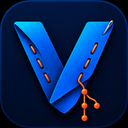
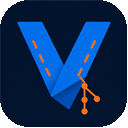
Release - 0.1.9 (#6)
* * 0.1.9 - Fixed MarketPlace Icon

* * 0.1.9 - add Auto Fetch

* * 0.1.9 - Release

---------

diff --git a/src/branches/branchesViewProvider.ts b/src/branches/branchesViewProvider.ts
@@ -10,19 +10,37 @@ import type {
 	ExtensionToBranchesMessage,
 } from '../shared/protocol/branches';
 
-export class BranchesViewProvider implements vscode.WebviewViewProvider {
+export class BranchesViewProvider implements vscode.WebviewViewProvider, vscode.Disposable {
 	static readonly viewType = 'gitTools.branchesView';
 
 	private view: vscode.WebviewView | undefined;
 	private readonly text = createTranslator(vscode.env.language);
 	private autoFetchInProgress = false;
 	private lastAutoFetchAt = 0;
+	private autoFetchTimer: ReturnType<typeof setInterval> | undefined;
+	private readonly disposables: vscode.Disposable[] = [];
 
 	constructor(
 		private readonly extensionUri: vscode.Uri,
 		private readonly api: API,
 		private readonly pushPreview: PushPreviewPanel,
-	) {}
+	) {
+		this.disposables.push(vscode.workspace.onDidChangeConfiguration((event) => {
+			if (!event.affectsConfiguration('gitTools.fetch')) return;
+			this.resetAutoFetchTimer();
+			void this.autoFetchRemoteState();
+		}));
+	}
+
+	startAutoFetch(): void {
+		this.resetAutoFetchTimer();
+		void this.autoFetchRemoteState();
+	}
+
+	dispose(): void {
+		if (this.autoFetchTimer) clearInterval(this.autoFetchTimer);
+		for (const disposable of this.disposables) disposable.dispose();
+	}
 
 	// Phase 3+ scope: first repository only, matching the commit panel and graph view.
 	private get repo() {
@@ -111,6 +129,7 @@ export class BranchesViewProvider implements vscode.WebviewViewProvider {
 					if (this.repo) {
 						this.post({ type: 'busy', busy: true });
 						await this.repo.fetch({ all: true, prune: true });
+						this.lastAutoFetchAt = Date.now();
 						await this.repo.status();
 						await this.sendBranches();
 					}
@@ -157,12 +176,18 @@ export class BranchesViewProvider implements vscode.WebviewViewProvider {
 
 	private async autoFetchRemoteState(): Promise<void> {
 		const repo = this.repo;
-		if (!repo || repo.state.remotes.length === 0 || this.autoFetchInProgress || Date.now() - this.lastAutoFetchAt < 60_000) return;
+		if (
+			!this.isAutoFetchEnabled()
+			|| !repo
+			|| repo.state.remotes.length === 0
+			|| this.autoFetchInProgress
+			|| Date.now() - this.lastAutoFetchAt < this.getAutoFetchIntervalMs()
+		) return;
 		this.autoFetchInProgress = true;
 		this.lastAutoFetchAt = Date.now();
 		try {
 			this.post({ type: 'busy', busy: true });
-			await repo.fetch({ all: true, prune: true });
+			await repo.fetch({ all: true });
 			await repo.status();
 			await this.sendBranches();
 		} catch (error) {
@@ -175,6 +200,24 @@ export class BranchesViewProvider implements vscode.WebviewViewProvider {
 			this.autoFetchInProgress = false;
 			this.post({ type: 'busy', busy: false });
 		}
+	}
+
+	private resetAutoFetchTimer(): void {
+		if (this.autoFetchTimer) {
+			clearInterval(this.autoFetchTimer);
+			this.autoFetchTimer = undefined;
+		}
+		if (!this.isAutoFetchEnabled()) return;
+		this.autoFetchTimer = setInterval(() => void this.autoFetchRemoteState(), this.getAutoFetchIntervalMs());
+	}
+
+	private isAutoFetchEnabled(): boolean {
+		return vscode.workspace.getConfiguration('gitTools.fetch').get<boolean>('auto', true);
+	}
+
+	private getAutoFetchIntervalMs(): number {
+		const minutes = vscode.workspace.getConfiguration('gitTools.fetch').get<number>('intervalMinutes', 20);
+		return Math.max(1, minutes) * 60_000;
 	}
 
 	private async createBranch(from: string, suggestedName?: string): Promise<void> {

diff --git a/src/extension.ts b/src/extension.ts
@@ -53,6 +53,7 @@ export async function activate(context: vscode.ExtensionContext): Promise<void> 
 
 	const branchesViewProvider = new BranchesViewProvider(context.extensionUri, api, pushPreview);
 	context.subscriptions.push(
+		branchesViewProvider,
 		vscode.window.registerWebviewViewProvider(BranchesViewProvider.viewType, branchesViewProvider),
 	);
 
@@ -86,10 +87,12 @@ export async function activate(context: vscode.ExtensionContext): Promise<void> 
 		api.onDidOpenRepository((repo) => {
 			wireRepository(repo);
 			void reconcileAll();
+			branchesViewProvider.startAutoFetch();
 		}),
 		api.onDidCloseRepository(() => void reconcileAll()),
 	);
 	await reconcileAll();
+	branchesViewProvider.startAutoFetch();
 
 	context.subscriptions.push(
 		vscode.commands.registerCommand('gitTools.showChangedFiles', () => {
